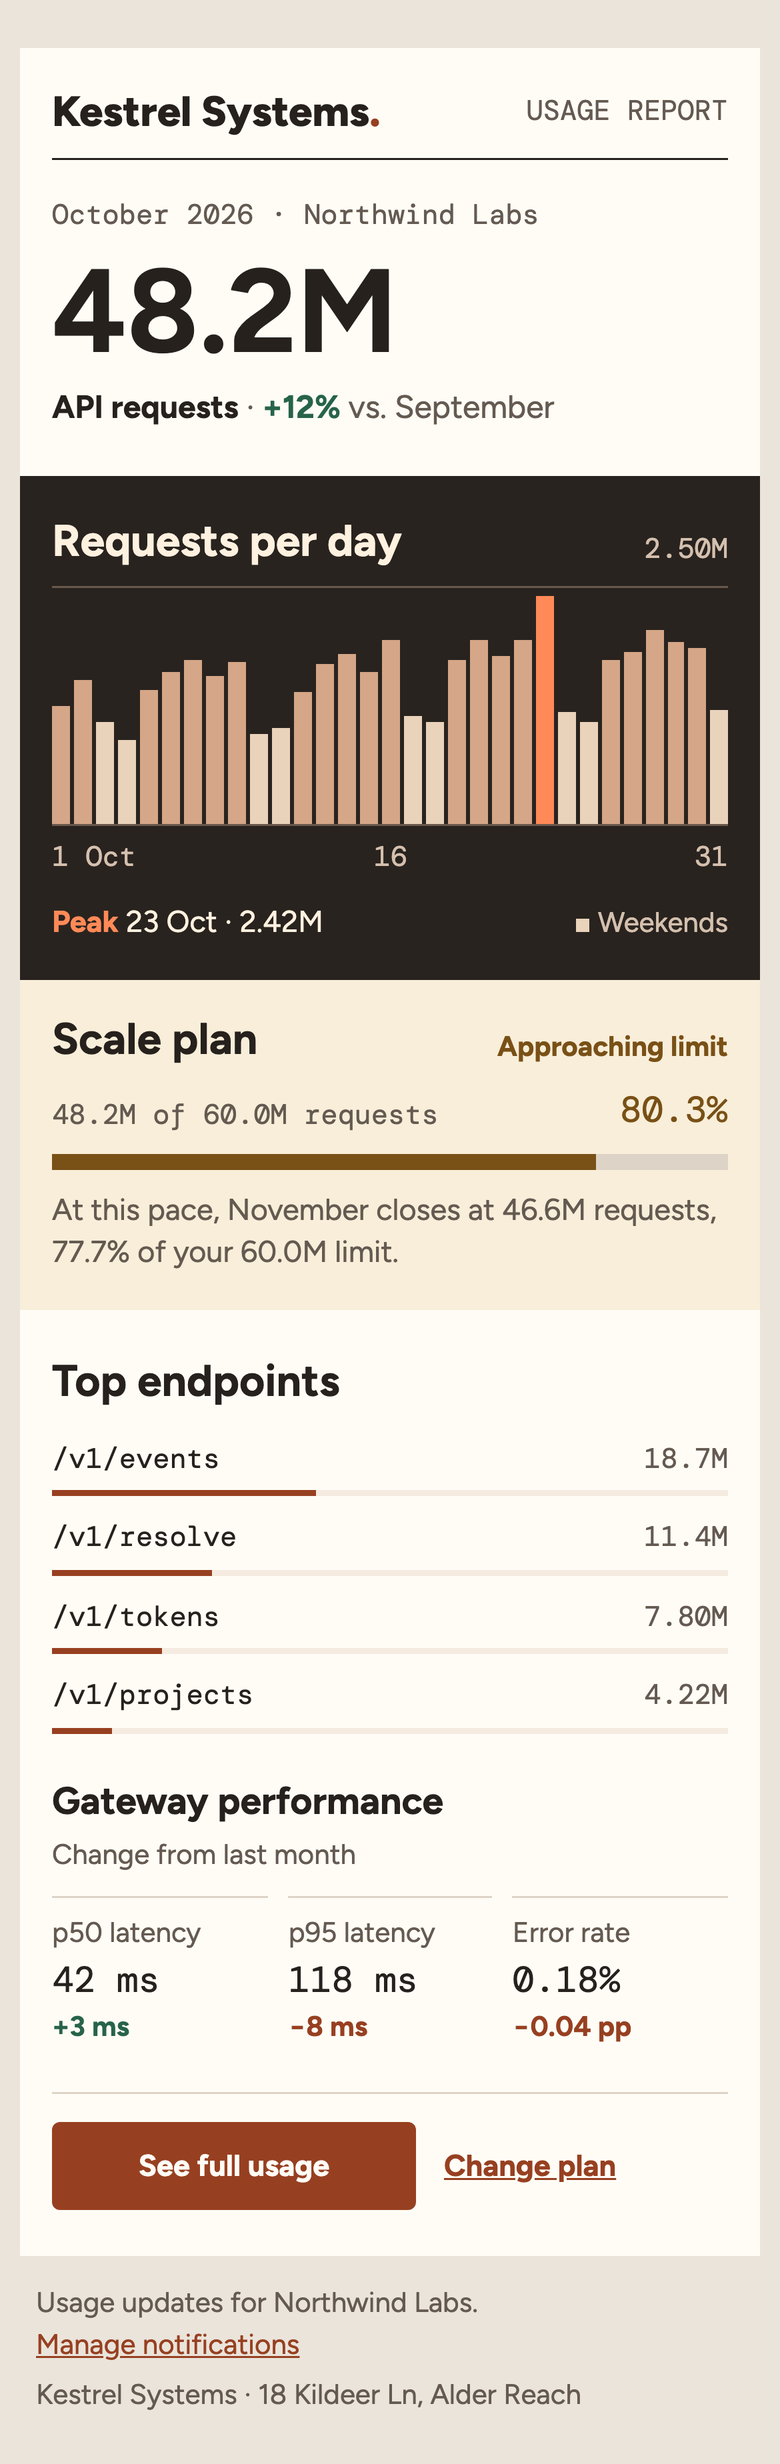
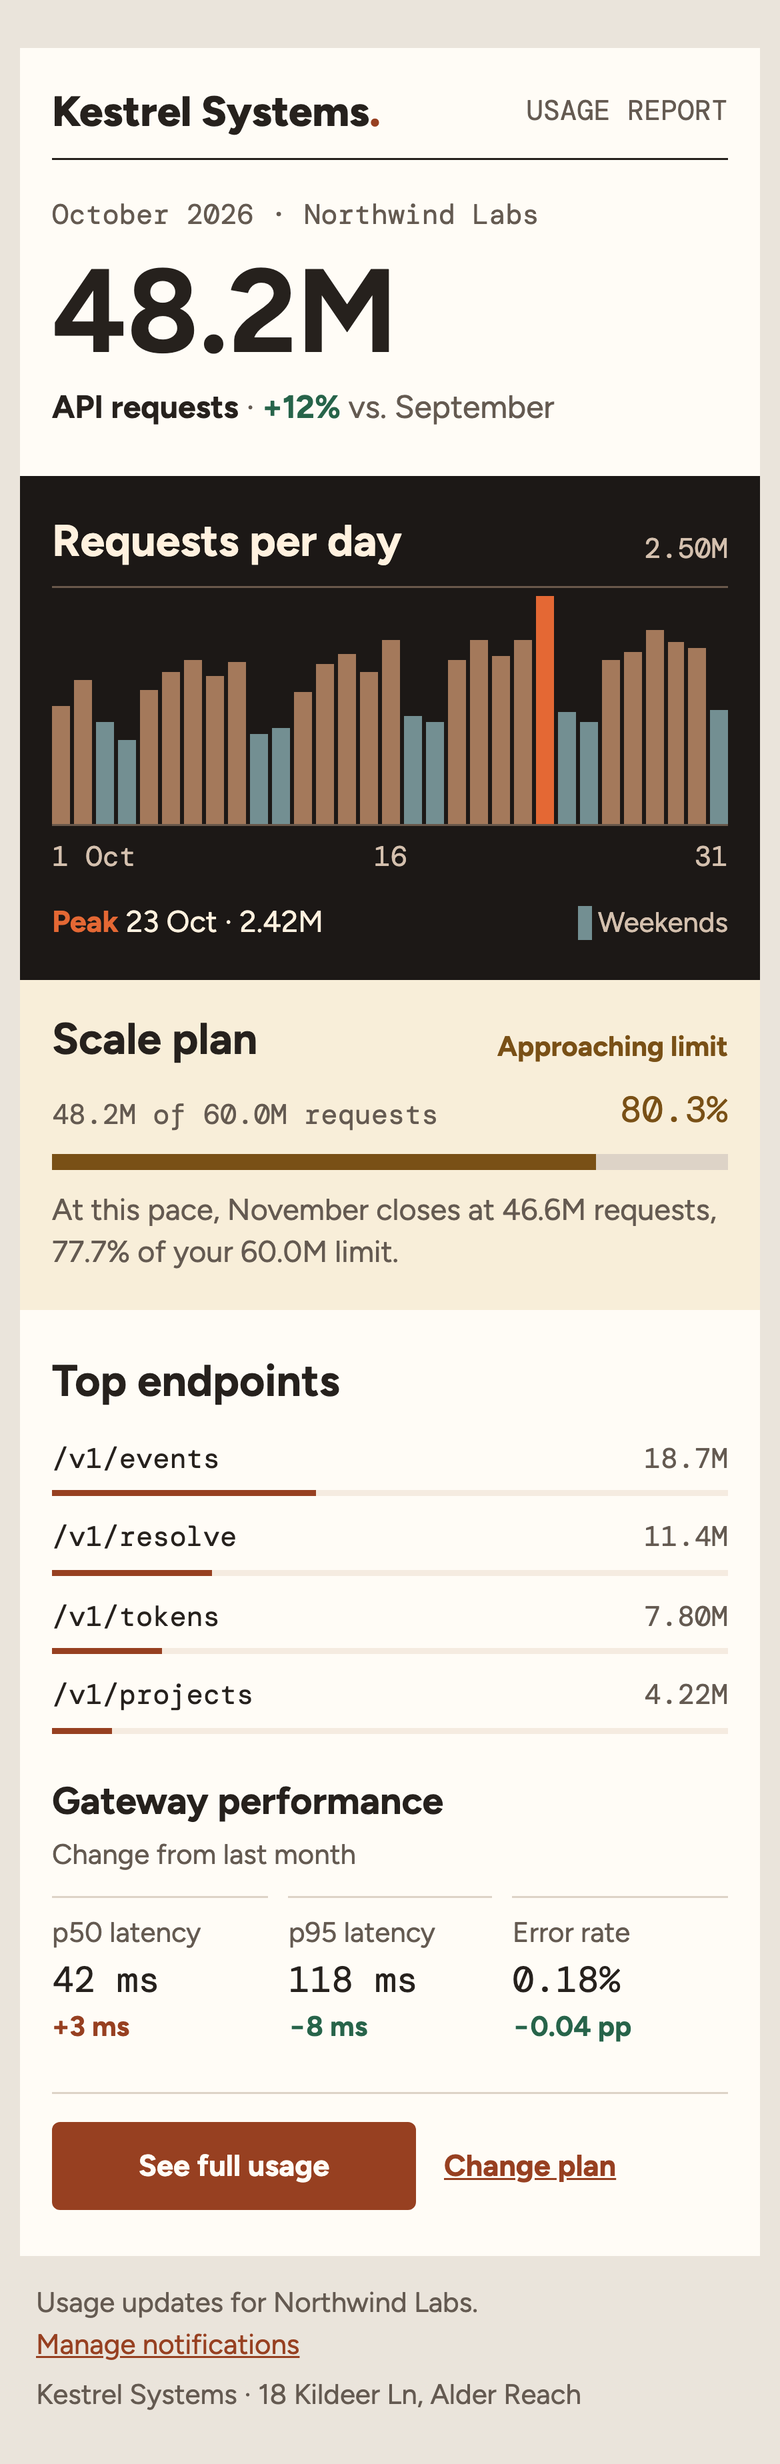
Revision 3: review fixes (correct engineering values / delta direction, validation, README first screen)

diff --git a/src/kestrel-usage-report.tsx b/src/kestrel-usage-report.tsx
@@ -25,13 +25,13 @@ const ALERT = "#8B3024";
 const CALM_WASH = "#EDF2E9";
 const WARN_WASH = "#F8EED9";
 const ALERT_WASH = "#F7E8E1";
-const PLOT = "#29231F";
+const PLOT = "#1C1816";
 const PLOT_TEXT = "#FFF1DF";
 const PLOT_QUIET = "#D4C0AE";
 const PLOT_RULE = "#69584B";
-const WEEKDAY = "#D5A687";
-const WEEKEND = "#EAD3BB";
-const PEAK = "#FF8A57";
+const WEEKDAY = "#A4795B";
+const WEEKEND = "#738F92";
+const PEAK = "#E46834";
 
 const SANS = "Figtree, 'Helvetica Neue', Helvetica, Arial, sans-serif";
 const MONO = "'DM Mono', Consolas, 'Courier New', monospace";
@@ -54,7 +54,7 @@ const longDate = new Intl.DateTimeFormat("en-GB", { day: "numeric", month: "long
 const dayAndMonth = new Intl.DateTimeFormat("en-GB", { day: "numeric", month: "short", timeZone: "UTC" });
 
 type QuantityUnit = { singular: string; plural: string };
-type Figure = { label: string; value: number; unit: string; previous?: number };
+type Figure = { label: string; value: number; unit: string; previous?: number; better?: "higher" | "lower" };
 
 export type UsageReportData = {
   companyName: string;
@@ -110,9 +110,9 @@ export const exampleUsage = {
   ],
   performanceTitle: "Gateway performance",
   performance: [
-    { label: "p50 latency", value: 42, unit: "ms", previous: 39 },
-    { label: "p95 latency", value: 118, unit: "ms", previous: 126 },
-    { label: "Error rate", value: 0.18, unit: "%", previous: 0.22 },
+    { label: "p50 latency", value: 42, unit: "ms", previous: 39, better: "lower" },
+    { label: "p95 latency", value: 118, unit: "ms", previous: 126, better: "lower" },
+    { label: "Error rate", value: 0.18, unit: "%", previous: 0.22, better: "lower" },
   ],
   usageUrl: `${SITE}/northwind/usage`,
   planUrl: `${SITE}/northwind/plan`,
@@ -142,7 +142,11 @@ function monthStart(isoDate: string) {
   if (!/^\d{4}-\d{2}-\d{2}$/.test(isoDate) || !Number.isFinite(+date) || date.toISOString().slice(0, 10) !== isoDate) {
     throw new RangeError("Month must be a real date in YYYY-MM-DD format.");
   }
-  return dateInMonth(date, 1);
+  const start = dateInMonth(date, 1);
+  if (start > new Date()) {
+    throw new RangeError(`month: ${monthAndYear.format(start)} is a future UTC billing month.`);
+  }
+  return start;
 }
 
 function number(value: number) {
@@ -158,6 +162,33 @@ function normalize(value: number) {
 
 function sumUsage(values: readonly number[]) {
   return normalize(values.reduce((sum, value) => sum + value, 0));
+}
+
+function monthlyUsage(daily: readonly number[], items: NonNullable<UsageReportData["breakdown"]>) {
+  const names = new Set<string>();
+  for (const [index, { name, count }] of items.entries()) {
+    const field = `breakdown[${index}]`;
+    if (names.has(name.trim())) throw new RangeError(`${field}.name: duplicate breakdown name “${name}”.`);
+    names.add(name.trim());
+    if (!Number.isFinite(count) || count < 0) throw new RangeError(`${field}.count: expected finite, nonnegative usage.`);
+  }
+
+  // Compare in common decimal units so 0.1 + 0.2 equals 0.3 and a small overage still counts.
+  const parts = [...daily, ...items.map(({ count }) => count)].map((value) => {
+    const [mantissa, power] = value.toExponential().split("e");
+    const [whole, fraction = ""] = mantissa.split(".");
+    return { digits: BigInt(whole + fraction), power: Number(power) - fraction.length };
+  });
+  const power = Math.min(...parts.map((part) => part.power));
+  const units = parts.map((part) => part.digits * 10n ** BigInt(part.power - power));
+  const total = units.slice(0, daily.length).reduce((sum, count) => sum + count, 0n);
+  const asNumber = (count: bigint) => Number(`${count}e${power}`);
+  const breakdown = units.slice(daily.length);
+  const oversized = breakdown.findIndex((count) => count > total);
+  if (oversized >= 0) throw new RangeError(`breakdown[${oversized}].count: ${items[oversized].count} exceeds the month's total of ${asNumber(total)}.`);
+  const subtotal = breakdown.reduce((sum, count) => sum + count, 0n);
+  if (subtotal > total) throw new RangeError(`breakdown: the counts combined exceed the month's total of ${asNumber(total)}.`);
+  return asNumber(total);
 }
 
 function quantity(value: number, unit: QuantityUnit, format = number) {
@@ -212,7 +243,8 @@ const quantityStyle = { ...mono, color: QUIET, textAlign: "right" } as const;
 
 /** Colored table cells give the meter a baseline without an image or web font. */
 function fillBar(ratio: number, height: number, track: string, fill: string) {
-  const filled = Math.min(1, Math.max(0, ratio)) * 100;
+  // Subpixel shares can serialize as exponents, which the email renderer rejects in widths.
+  const filled = Number((ratio * 100).toFixed(4));
   return (
     <Row stackOnMobile={false} style={{ backgroundColor: track }}>
       {filled > 0 && <Column style={{ width: `${filled}%`, height, backgroundColor: fill }} />}
@@ -278,7 +310,7 @@ function DailyChart({ month, daily, unit }: { month: Date; daily: readonly numbe
           </Text>
         </Column>
         <Column style={{ width: 135, padding: [0, 36, 20, 0], mobile: { padding: [0, 16, 18, 0] } }}>
-          <Text style={{ fontSize: 14, color: PLOT_QUIET, textAlign: "right" }}><Span style={{ color: WEEKEND }}>■</Span> Weekends</Text>
+          <Text style={{ fontSize: 14, color: PLOT_QUIET, textAlign: "right" }}><Span style={{ backgroundColor: WEEKEND }}> </Span> Weekends</Text>
         </Column>
       </Row>
     </>
@@ -367,6 +399,12 @@ function figureDelta(value: number, previous: number, unit: string) {
   return `${value > previous ? "+" : "−"}${figureValue(difference, unit === "%" ? "pp" : unit)}`;
 }
 
+function deltaColor(value: number, previous: number, better: Figure["better"] = "lower") {
+  if (value === previous) return QUIET;
+  const improved = better === "higher" ? value > previous : value < previous;
+  return improved ? GREEN : RUST;
+}
+
 function Performance({ figures, title }: { figures: readonly Figure[]; title: string }) {
   const showComparison = figures.some(({ previous }) => previous !== undefined);
   return (
@@ -378,13 +416,13 @@ function Performance({ figures, title }: { figures: readonly Figure[]; title: st
         </Column>
       </Row>
       <Row stackOnMobile={false} style={{ backgroundColor: PAPER, gap: 15, mobile: { gap: 10 } }}>
-        {figures.map(({ label: name, value, unit, previous }, index) => (
+        {figures.map(({ label: name, value, unit, previous, better }, index) => (
           <Column key={name} style={{ ...(index === 0 ? leftInset : {}), ...(index === figures.length - 1 ? rightInset : {}), ...(figures.length === 1 ? insets : {}), gap: 4 }}>
             <Divider style={{ borderTop: `1px solid ${RULE}` }} />
             <Text style={{ fontSize: 14, lineHeight: 1.4, color: QUIET, padding: [4, 0, 0] }}>{name}</Text>
             <Text style={{ ...mono, fontSize: 22, lineHeight: 1.15, mobile: { fontSize: 18 } }}>{figureValue(value, unit)}</Text>
             {previous !== undefined && (
-              <Text style={{ fontSize: 14, lineHeight: 1.35, fontWeight: 700, color: value > previous ? GREEN : value < previous ? RUST : QUIET }}>
+              <Text style={{ fontSize: 14, lineHeight: 1.35, fontWeight: 700, color: deltaColor(value, previous, better) }}>
                 {figureDelta(value, previous, unit)}
               </Text>
             )}
@@ -399,14 +437,14 @@ export default function KestrelUsageReport({ data = exampleUsage }: KestrelUsage
   const month = monthStart(data.month);
   const { daily, workspace, previousTotal, planName, planLimit, unit, performance = [] } = data;
   if (daily.length !== daysInMonth(month)) {
-    throw new RangeError(`Give one value for each of ${monthName.format(month)}’s ${daysInMonth(month)} UTC days.`);
+    throw new RangeError(`daily: expected ${daysInMonth(month)} values for ${monthAndYear.format(month)}, received ${daily.length}.`);
   }
-  if (![...daily, previousTotal, planLimit, ...(data.breakdown ?? []).map(({ count }) => count)].every((count) => Number.isFinite(count) && count >= 0) || planLimit === 0) {
+  if (![...daily, previousTotal, planLimit].every((count) => Number.isFinite(count) && count >= 0) || planLimit === 0) {
     throw new RangeError("Usage values must be finite and nonnegative, and the plan limit must be positive.");
   }
 
   const site = companySite(data);
-  const total = sumUsage(daily);
+  const total = monthlyUsage(daily, data.breakdown ?? []);
   const ratio = normalize(total / planLimit);
   const overLimit = ratio > 1;
   const change = previousTotal > 0 ? (total - previousTotal) / previousTotal : null;

diff --git a/scripts/usage-report.test.ts b/scripts/usage-report.test.ts
@@ -1,0 +1,57 @@
+import assert from "node:assert/strict";
+import { test } from "node:test";
+import { render } from "@hyper-elements/react";
+import KestrelUsageReport, { exampleUsage } from "../src/kestrel-usage-report";
+import UsageReport from "../templates/usage-report";
+
+const leapMonth = {
+  ...exampleUsage, month: "2024-02-29", daily: Array<number>(29).fill(1), breakdown: [],
+};
+
+test("rejects inconsistent billing data with the field name", () => {
+  const nextMonth = new Date();
+  nextMonth.setUTCMonth(nextMonth.getUTCMonth() + 1, 1);
+  for (const [patch, message] of [
+    [{ month: nextMonth.toISOString().slice(0, 10) }, /month: .*future/],
+    [{ daily: leapMonth.daily.slice(1) }, /daily: expected 29 .* received 28/],
+    [{ breakdown: [{ name: "items", count: 0 }, { name: "items", count: 1 }] }, /breakdown\[1\]\.name: duplicate/],
+    [{ breakdown: [{ name: "items", count: 30 }] }, /breakdown\[0\]\.count: 30 exceeds/],
+    [{ breakdown: [{ name: "a", count: 15 }, { name: "b", count: 15 }] }, /breakdown: .*combined exceed/],
+  ] as const) {
+    const result = UsageReport.check({ ...leapMonth, ...patch });
+    assert.equal(result.valid, false);
+    assert(result.diagnostics.some(({ message: text }) => message.test(text)));
+  }
+});
+
+test("accepts fractional shares up to the total and detects a small excess", () => {
+  const daily = [0.3, ...Array<number>(28).fill(0)];
+  const breakdown = [{ name: "a", count: 0.1 }, { name: "b", count: 0.2 }];
+  assert.equal(UsageReport.check({ ...leapMonth, daily, breakdown }).valid, true);
+  assert.throws(() => KestrelUsageReport({ data: {
+    ...leapMonth, daily, breakdown: [...breakdown, { name: "c", count: 1e-17 }],
+  } }), /breakdown: .*combined exceed/);
+});
+
+test("colors signed deltas by improvement and keeps usage growth positive", async () => {
+  const { html } = await render(KestrelUsageReport());
+  assert.match(html, /color:#974021[^">]*">\+3\sms</);
+  assert.match(html, /color:#27644a[^">]*">−8\sms</);
+  assert.match(html, /color:#27644a[^">]*">−0\.04\spp</);
+  assert.match(html, /color:#27644a[^">]*">\+12%</);
+
+  const figure = { label: "Uptime", unit: "%", previous: 97, better: "higher" } as const;
+  for (const [value, expected] of [
+    [98, /color:#27644a[^">]*">\+1\spp</],
+    [96, /color:#974021[^">]*">−1\spp</],
+    [97, /color:#645a51[^">]*">Unchanged</],
+  ] as const) {
+    const { html } = await render(KestrelUsageReport({ data: { ...exampleUsage, performance: [{ ...figure, value }] } }));
+    assert.match(html, expected);
+  }
+  const performance = [{ label: "Latency", unit: "ms", value: 5, previous: 6 }];
+  const result = UsageReport.check({ ...exampleUsage, performance });
+  assert.equal(result.values?.performance?.[0].better, "lower");
+  const legacy = await render(KestrelUsageReport({ data: { ...exampleUsage, performance } }));
+  assert.match(legacy.html, /color:#27644a[^">]*">−1\sms</);
+});

diff --git a/templates/usage-report.tsx b/templates/usage-report.tsx
@@ -10,7 +10,7 @@ const HAS_TEXT = "\\S";
 
 export default template({
   id: "kestrel.UsageReport",
-  version: "2.0.0",
+  version: "2.1.0",
   label: "Monthly usage report",
   guidance: "Use a completed UTC calendar month and the same unit throughout. The report computes usage, change and next month’s forecast. Every URL must use one of your listed company domains.",
   root: "Email",
@@ -62,7 +62,7 @@ export default template({
       }, { label: "Breakdown item" }),
       {
         label: "Breakdown", max: 5,
-        guidance: "Use distinct names and their monthly usage. The report sorts them by usage and shows each as a share of the month’s total.",
+        guidance: "Use distinct names for non-overlapping parts of the month’s usage. Their counts may cover all or part of the monthly total.",
       },
     ),
     performanceTitle: prop.text({ label: "Performance heading", maxLength: 36 }),
@@ -72,6 +72,10 @@ export default template({
         value: prop.number({ label: "Value", required: true, min: -MAX_FIGURE, max: MAX_FIGURE }),
         unit: prop.text({ label: "Figure unit", required: true, maxLength: 8, pattern: HAS_TEXT }),
         previous: prop.number({ label: "Last month’s value", min: -MAX_FIGURE, max: MAX_FIGURE }),
+        better: prop.choice(["higher", "lower"], {
+          label: "Direction of improvement", default: "lower",
+          guidance: "Choose lower for latency and error rate, or higher for a figure such as uptime.",
+        }),
       }, { label: "Figure" }),
       {
         label: "Performance figures", max: 3,

diff --git a/README.md b/README.md
@@ -1,27 +1,22 @@
 # Kestrel monthly usage report
 
-**A monthly usage email with a chart made of table cells so classic Outlook can draw every day.**
+A monthly API usage email with one table cell per day, so classic Outlook can draw the chart with image downloads turned off.
 
-<p>
-  <a href="docs/kestrel-desktop.png"><img src="docs/kestrel-desktop.png" width="455" alt="Desktop report for Northwind Labs. October usage reached 48.2 million requests, or 80.3% of the plan limit."></a>
-  <a href="docs/kestrel-phone.png"><img src="docs/kestrel-phone.png" width="234" alt="The same report on a phone, with all 31 days visible."></a>
-</p>
-
-## Why it exists
-
-People who pay by the request, message, GB, or build minute need to know what changed and whether their plan will cover next month. This template turns one month of daily usage into an email with a forecast and a link to act on it. The chart loads with the email, even when image downloads are blocked.
+<img src="docs/kestrel-hero.png" width="640" alt="October usage for Northwind Labs on desktop and phone. Both show 48.2 million requests and the 23 October peak.">
 
 ## Use it
 
-Install the dependencies and render the gallery example and the three values files. The build writes HTML and plain text to `out/` and captures desktop and phone views when Chromium is available.
+From the root of a fresh clone, run these three commands.
 
 ```sh
-git clone https://github.com/adityasarade/hyper-elements-usage-email.git
-cd hyper-elements-usage-email
 npm ci
 npx playwright install chromium
 npm run build
 ```
+
+Open `out/kestrel-usage-report.html` for the gallery example. The build also renders the three values files in `designs/`, writes a plain-text part for each report, and captures desktop and phone PNGs when Chromium can start.
+
+A billing team can use the daily totals it already collects to show customers what changed, how much of their plan they used, and when the same pace would take them over their limit. The customer can open their usage details or change plans from the email.
 
 Pass checked data to the component in your app. Use the returned `html` and `text` as the two parts of a transactional email.
 
@@ -31,30 +26,17 @@ import KestrelUsageReport from "./src/kestrel-usage-report";
 import UsageReport from "./templates/usage-report";
 import morrow from "./designs/morrow-february.values.json" with { type: "json" };
 
-const { valid, values } = UsageReport.check(morrow.values);
-if (!valid || !values) throw new Error("Invalid usage report values");
+const { valid, values, diagnostics } = UsageReport.check(morrow.values);
+if (!valid || !values) throw new Error(diagnostics.map(d => d.message).join("\n"));
 const { html, text } = await render(<KestrelUsageReport data={values} />);
 ```
 
-To fill the template from the CLI, copy the `values` object from an example into `usage.json`. Supply one value per UTC day of a completed calendar month, then run:
+To fill the template from the CLI, copy the `values` object from an example into `usage.json`. Supply one value per UTC day of a completed calendar month.
 
 ```sh
 npx hyper-elements describe templates/usage-report.tsx
 npx hyper-elements design new templates/usage-report.tsx --values usage.json -o designs/your-workspace.values.json
 npm run build -- designs/your-workspace.values.json
-```
-
-## How Hyper Elements is used
-
-- **Daily chart.** An `Email` lays out a `Row stackOnMobile={false}` with one colored `Column` per day. The height comes from that day’s usage, weekends use a lighter shade, and the peak gets a separate color and caption. The chart’s accessible summary also goes into the plain-text part.
-- **Plan and forecast.** The meter is calm below 80%, warns from 80% through 100%, and switches to an over-limit state above 100%. Two cells show the included usage and the excess. The primary button switches to **Upgrade plan** when there’s an overage. The forecast uses the month’s average daily usage and next month’s calendar to give a closing total or the expected date of the first overage.
-- **Template fields.** Set the company, postal address, billing unit, headline label, and breakdown title and name style. Breakdown names can be up to 48 characters. Add up to three performance figures with optional previous values. `kestrel.UsageReport` checks calendar coverage, language, preview text, link text, contrast and layout. Each destination must use an exact hostname from the filler’s company domain list. Version 2 reads version 1 values files through a migration.
-
-```tsx
-<Column style={{
-  height: barHeight(count),
-  backgroundColor: count === 0 ? undefined : index === peakIndex ? PEAK : weekend ? WEEKEND : WEEKDAY,
-}} />
 ```
 
 ## Edit it in Unlayer's builder
@@ -65,7 +47,23 @@ The wordmark, headline number, headings, captions, paragraphs, breakdown names a
 
 ![Kestrel usage report in Unlayer’s builder](docs/builder.jpg)
 
+## How Hyper Elements is used
+
+- **Daily chart.** An `Email` lays out a `Row stackOnMobile={false}` with one colored `Column` per day. The height comes from that day’s usage, weekdays are clay, weekends are blue-gray, and the peak gets a separate color and caption. The chart’s accessible summary also goes into the plain-text part.
+- **Plan and forecast.** The meter is calm below 80%, warns from 80% through 100%, and switches to an over-limit state above 100%. Two cells show the included usage and the excess. The primary button switches to **Upgrade plan** when there’s an overage. The forecast uses the month’s average daily usage and next month’s calendar to give a closing total or the expected date of the first overage.
+- **Template fields.** Set the company, postal address, billing unit, headline label, and breakdown title and name style. Breakdown names can be up to 48 characters. The billing month can’t be in the future. The daily list must cover its exact number of days, including leap days. Each breakdown name must be distinct, and the counts together must fit within the monthly total. The template also checks language, preview text, link text, contrast and layout. Each destination must use an exact hostname from the filler’s company domain list. Version 2 reads version 1 values files through a migration.
+- **Performance figures.** Up to three figures can include a previous value. Set `better` to `"lower"` for latency or error rate (the default), or `"higher"` for a metric such as uptime. Green marks improvement, rust marks regression, and equal values read “Unchanged.” The sign shows the direction of change. A move from 0.22% to 0.18% reads “−0.04 pp.”
+
+```tsx
+<Column style={{
+  height: barHeight(count),
+  backgroundColor: count === 0 ? undefined : index === peakIndex ? PEAK : weekend ? WEEKEND : WEEKDAY,
+}} />
+```
+
 ## Views
+
+Read the full October report on [desktop](docs/kestrel-desktop.png) or [phone](docs/kestrel-phone.png). The Outlook captures below show the previous palette. The preview command renders the current one.
 
 ### Classic Outlook for Windows
 
@@ -82,10 +80,10 @@ The dark-mode emulator recolors the report. The peak and plan warning are both l
 </p>
 
 ```sh
-npx hyper-elements preview src/kestrel-usage-report.tsx --clients outlook,outlook-mac --dark
+npx hyper-elements preview src/kestrel-usage-report.tsx --clients outlook,outlook-mac,gmail,apple-mail --dark
 ```
 
-Open `outlook.html` and `outlook-mac.dark.html` under `out/clients/src/kestrel-usage-report/` for the emulator previews.
+Open the HTML files under `out/clients/src/kestrel-usage-report/` to compare classic Outlook (`outlook.html`), Outlook for Mac (`outlook-mac.dark.html`), Gmail (`gmail.html`), or Apple Mail (`apple-mail.html`).
 
 ### More datasets
 
@@ -105,6 +103,7 @@ The [October plain-text part](docs/kestrel.txt) includes the exact totals for th
 | `npx hyper-elements check src templates designs` | 5 designs with 0 errors, 0 warnings, and 0 skipped |
 | `npx tsc --noEmit` | Exit 0 |
 | `npm run design-json` | 6 HTML fallbacks, all for charts or bars |
+| `npm test` | 3 regression tests passed for validation, fractional usage and delta colors |
 
 The two build notes cover web-font and phone-style support in some clients. Fallback fonts and the base table layout keep the report readable there.
 
@@ -112,9 +111,7 @@ The two build notes cover web-font and phone-style support in some clients. Fall
 
 Copy [`src/kestrel-usage-report.tsx`](src/kestrel-usage-report.tsx) to `apps/website/examples/templates/`. It has the gallery's `meta` and renders with no props.
 
-We tested exactly that: the file, unchanged, in a local clone of the Hyper Elements site, through the site's own
-generator (`pnpm generate`) and dev server. It rendered with 2 notes, both `info`: web fonts don't load in some email clients, and some clients keep desktop styles on phones, and appears on `/templates/kestrel-usage-report` beside the
-official designs:
+The screenshot shows an earlier version of this report rendered by the gallery’s own generator (`pnpm generate`) and dev server at `/templates/kestrel-usage-report` in a local checkout.
 
 ![The design on its page in a local build of the Hyper Elements template gallery, with its preview and source.](docs/in-the-gallery.jpg)
 
